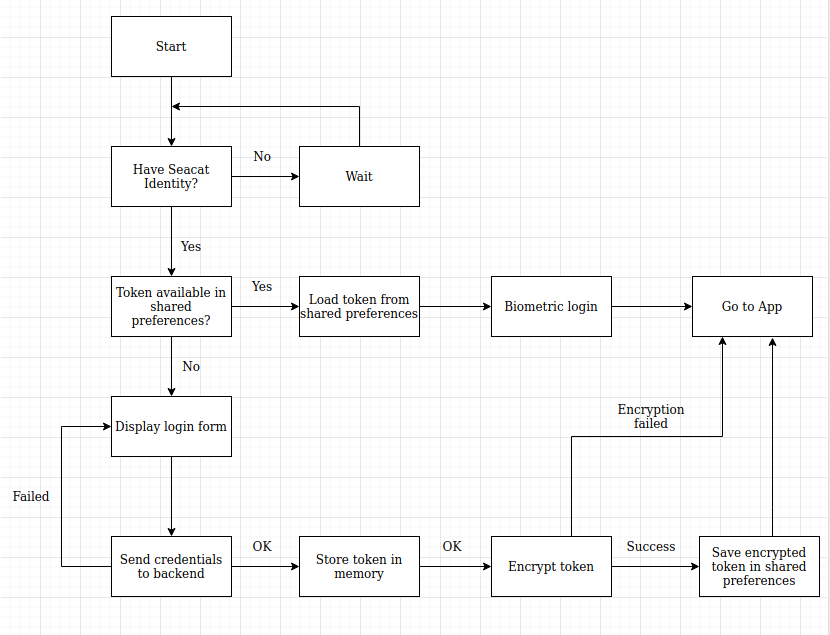
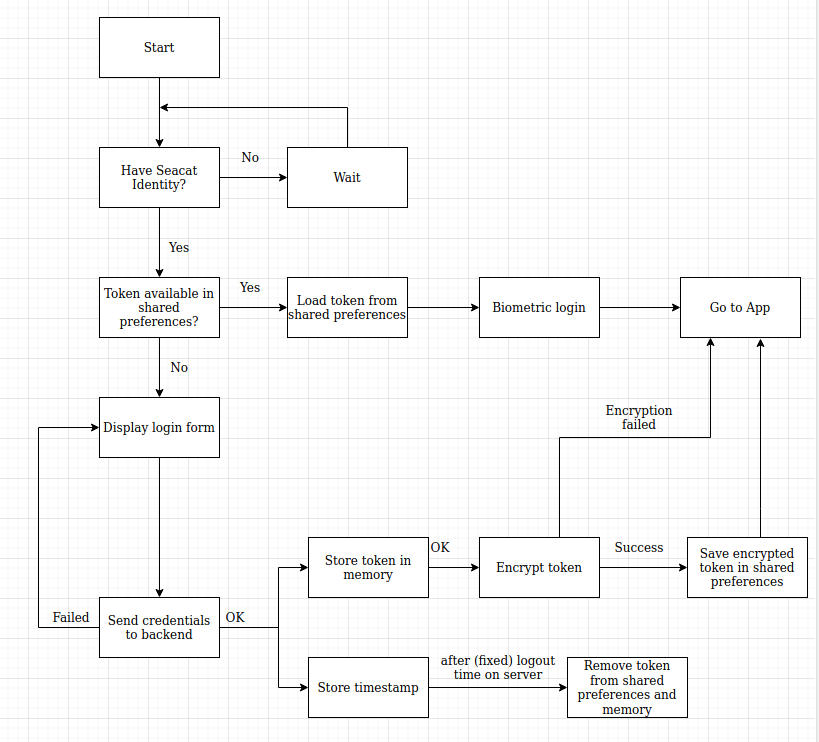
Create an alarm and send an intent to logout after specified time

diff --git a/app/src/main/java/cz/ikem/dci/zscanner/screen_splash_login/LoginFragment.kt b/app/src/main/java/cz/ikem/dci/zscanner/screen_splash_login/LoginFragment.kt
@@ -17,6 +17,7 @@ import cz.ikem.dci.zscanner.webservices.HttpClient
 import kotlinx.android.synthetic.main.fragment_login.view.*
 import okhttp3.ResponseBody
 import java.nio.ByteBuffer
+import java.util.*
 
 //TODO: If (BiometricManager.from(app).canAuthenticate() != BiometricManager.BIOMETRIC_SUCCESS), display the info message about that
 
@@ -27,7 +28,7 @@ class LoginFragment : androidx.fragment.app.Fragment(), retrofit2.Callback<Respo
     private val TAG = LoginFragment::class.java.simpleName
 
     override fun onCreateView(inflater: LayoutInflater, container: ViewGroup?, savedInstanceState: Bundle?): View {
-        fragmentView  = inflater.inflate(R.layout.fragment_login, container, false)
+        fragmentView = inflater.inflate(R.layout.fragment_login, container, false)
 
         val applicationContext = context?.applicationContext
         if (applicationContext != null) {
@@ -39,8 +40,8 @@ class LoginFragment : androidx.fragment.app.Fragment(), retrofit2.Callback<Respo
             val password = fragmentView.password_edit_text.text.toString()
 
             HttpClient.ApiServiceBackend.postLogin(
-                username,
-                password
+                    username,
+                    password
             ).enqueue(this)
 
             fragmentView.submit_button.visibility = INVISIBLE
@@ -70,6 +71,7 @@ class LoginFragment : androidx.fragment.app.Fragment(), retrofit2.Callback<Respo
 
                 val app = context?.applicationContext as ZScannerApplication
                 val cyphertext = ByteBuffer.allocate(access_token.size + 4096)
+                val sharedPreferences = sharedPreferences
 
                 // Try to encrypt the token and save it in shared preferences
                 if (app.masterKey.encrypt(ByteBuffer.wrap(access_token), cyphertext)) {
@@ -77,17 +79,24 @@ class LoginFragment : androidx.fragment.app.Fragment(), retrofit2.Callback<Respo
                     val cyphertext_array = ByteArray(cyphertext.limit())
                     cyphertext.get(cyphertext_array)
 
-                    val sharedPreferences = sharedPreferences
                     if (sharedPreferences != null) {
                         val username = fragmentView.username_edit_text.text.toString()
                         sharedPreferences.edit()
-                            .putString(PREF_ACCESS_TOKEN, Base64.encodeToString(cyphertext_array, Base64.DEFAULT))
-                            .putString(PREF_USERNAME, username)
-                            .apply()
+                                .putString(PREF_ACCESS_TOKEN, Base64.encodeToString(cyphertext_array, Base64.DEFAULT))
+                                .putString(PREF_USERNAME, username)
+                                .apply()
                     }
                 } else { // encryption failed. Allow to login, but without possibility to use biometry
                     Log.w(TAG, "Token encryption failed")
                     Toast.makeText(context, getString(R.string.no_biometry_available), Toast.LENGTH_SHORT).show()
+                }
+
+                // save the timestamp of last successful login so we can logout the user after the timeout on the server side
+                if (sharedPreferences != null) {
+                    val lastSuccessfulLogin = System.currentTimeMillis()
+                    sharedPreferences.edit()
+                            .putLong(PREF_LAST_SUCCESSFUL_LOGIN, lastSuccessfulLogin)
+                            .apply()
                 }
 
                 HttpClient.reset(access_token)

diff --git a/app/src/main/java/cz/ikem/dci/zscanner/screen_jobs/JobsOverviewActivity.kt b/app/src/main/java/cz/ikem/dci/zscanner/screen_jobs/JobsOverviewActivity.kt
@@ -1,10 +1,12 @@
 package cz.ikem.dci.zscanner.screen_jobs
 
-import android.content.Context
-import android.content.Intent
-import android.content.SharedPreferences
+import android.app.AlarmManager
+import android.app.AlarmManager.RTC
+import android.app.PendingIntent
+import android.content.*
 import android.os.Bundle
 import android.os.Handler
+import android.util.Log
 import android.view.MenuItem
 import android.widget.TextView
 import androidx.appcompat.app.AlertDialog
@@ -22,12 +24,16 @@ import okhttp3.ResponseBody
 import retrofit2.Call
 import retrofit2.Callback
 import retrofit2.Response
+import java.util.*
 import java.util.concurrent.TimeUnit
 
 
 class JobsOverviewActivity : AppCompatActivity() {
 
     private val TAG = JobsOverviewActivity::class.java.simpleName
+
+    private lateinit var alarmManager: AlarmManager
+    private lateinit var pendingIntent: PendingIntent
 
     private lateinit var sharedPreferences: SharedPreferences
 
@@ -51,13 +57,15 @@ class JobsOverviewActivity : AppCompatActivity() {
         sharedPreferences = application.getSharedPreferences(SHARED_PREF_KEY, Context.MODE_PRIVATE)
         val username = sharedPreferences.getString(PREF_USERNAME, "")
 
+
+
         nav_view.getHeaderView(0).findViewById<TextView>(R.id.username_textview)?.apply {
             text = getString(R.string.username_prefix) + ": " + (username?.toLowerCase() ?: "???")
         }
 
         refreshDepartments()
         setMenuOptions()
-
+        scheduleAutomaticLogout()
     }
 
     override fun onOptionsItemSelected(item: MenuItem): Boolean {
@@ -143,4 +151,24 @@ class JobsOverviewActivity : AppCompatActivity() {
         finish()
     }
 
+    /** send intent to logout automatically after [SERVER_SIDE_LOGOUT_TIMEOUT] */
+    private fun scheduleAutomaticLogout() {
+        val serverLogoutTime = sharedPreferences.getLong(PREF_LAST_SUCCESSFUL_LOGIN, System.currentTimeMillis()) + SERVER_SIDE_LOGOUT_TIMEOUT
+
+        // Creating the pending intent to send to the BroadcastReceiver
+        alarmManager = getSystemService(Context.ALARM_SERVICE) as AlarmManager
+        val intent = Intent(this, LogoutReceiver::class.java)
+        pendingIntent = PendingIntent.getBroadcast(this, REQUEST_CODE, intent, PendingIntent.FLAG_UPDATE_CURRENT)
+
+        // Starts the alarm manager
+        alarmManager.setExact(
+                RTC,
+                serverLogoutTime,
+                pendingIntent
+        )
+    }
+
+    companion object {
+        val REQUEST_CODE = 100
+    }
 }

diff --git a/app/src/main/java/cz/ikem/dci/zscanner/LogoutReceiver.kt b/app/src/main/java/cz/ikem/dci/zscanner/LogoutReceiver.kt
@@ -1,0 +1,14 @@
+package cz.ikem.dci.zscanner
+
+import android.content.BroadcastReceiver
+import android.content.Context
+import android.content.Intent
+import android.util.Log
+import android.widget.Toast
+
+class LogoutReceiver : BroadcastReceiver() {
+    override fun onReceive(context: Context, intent: Intent) {
+        Toast.makeText(context, "Alarm Triggered", Toast.LENGTH_LONG).show()
+        Log.e("DEBUGGING", "MyAlarmReceiver, onReceive: AAAAAAAAAAAA = MyAlarmReceiver ${System.currentTimeMillis()}")
+    }
+}

diff --git a/app/src/main/java/cz/ikem/dci/zscanner/Constants.kt b/app/src/main/java/cz/ikem/dci/zscanner/Constants.kt
@@ -43,5 +43,9 @@ const val PREF_USERNAME = "USERNAME"
 const val PREF_ACCESS_TOKEN = "ACCESS_TOKEN"
 const val PREF_FIRST_TIME_PROMPTED = "FIRST_TIME_RUN"
 const val PREF_TUTORIAL_NEXT_STEP = "TUTORIAL_NEXT"
+const val PREF_LAST_SUCCESSFUL_LOGIN = "PREF_LAST_SUCCESSFUL_LOGIN"
 
 const val BIOMETRIC_KEY_NAME = "zScanner Master Key"
+const val SERVER_SIDE_LOGOUT_TIMEOUT = 20000 //TODO!!! !!! !!! set to 8 hours
+const val BROADCAST_ACTION_LOGOUT = "ACTION_LOGOUT"
+const val BROADCAST_EXTRA_SHOULD_LOGOUT = "SHOULD_LOGOUT"

diff --git a/app/src/main/java/cz/ikem/dci/zscanner/screen_jobs/JobUtils.kt b/app/src/main/java/cz/ikem/dci/zscanner/screen_jobs/JobUtils.kt
@@ -14,7 +14,6 @@ import cz.ikem.dci.zscanner.workers.DirectoryCleanupWorker
 import cz.ikem.dci.zscanner.workers.PageFilesCleanupWorker
 import cz.ikem.dci.zscanner.workers.SendPageWorker
 import cz.ikem.dci.zscanner.workers.SendSummaryWorker
-import org.json.JSONArray
 import java.util.concurrent.TimeUnit
 
 class JobUtils(private val context: Context) {
